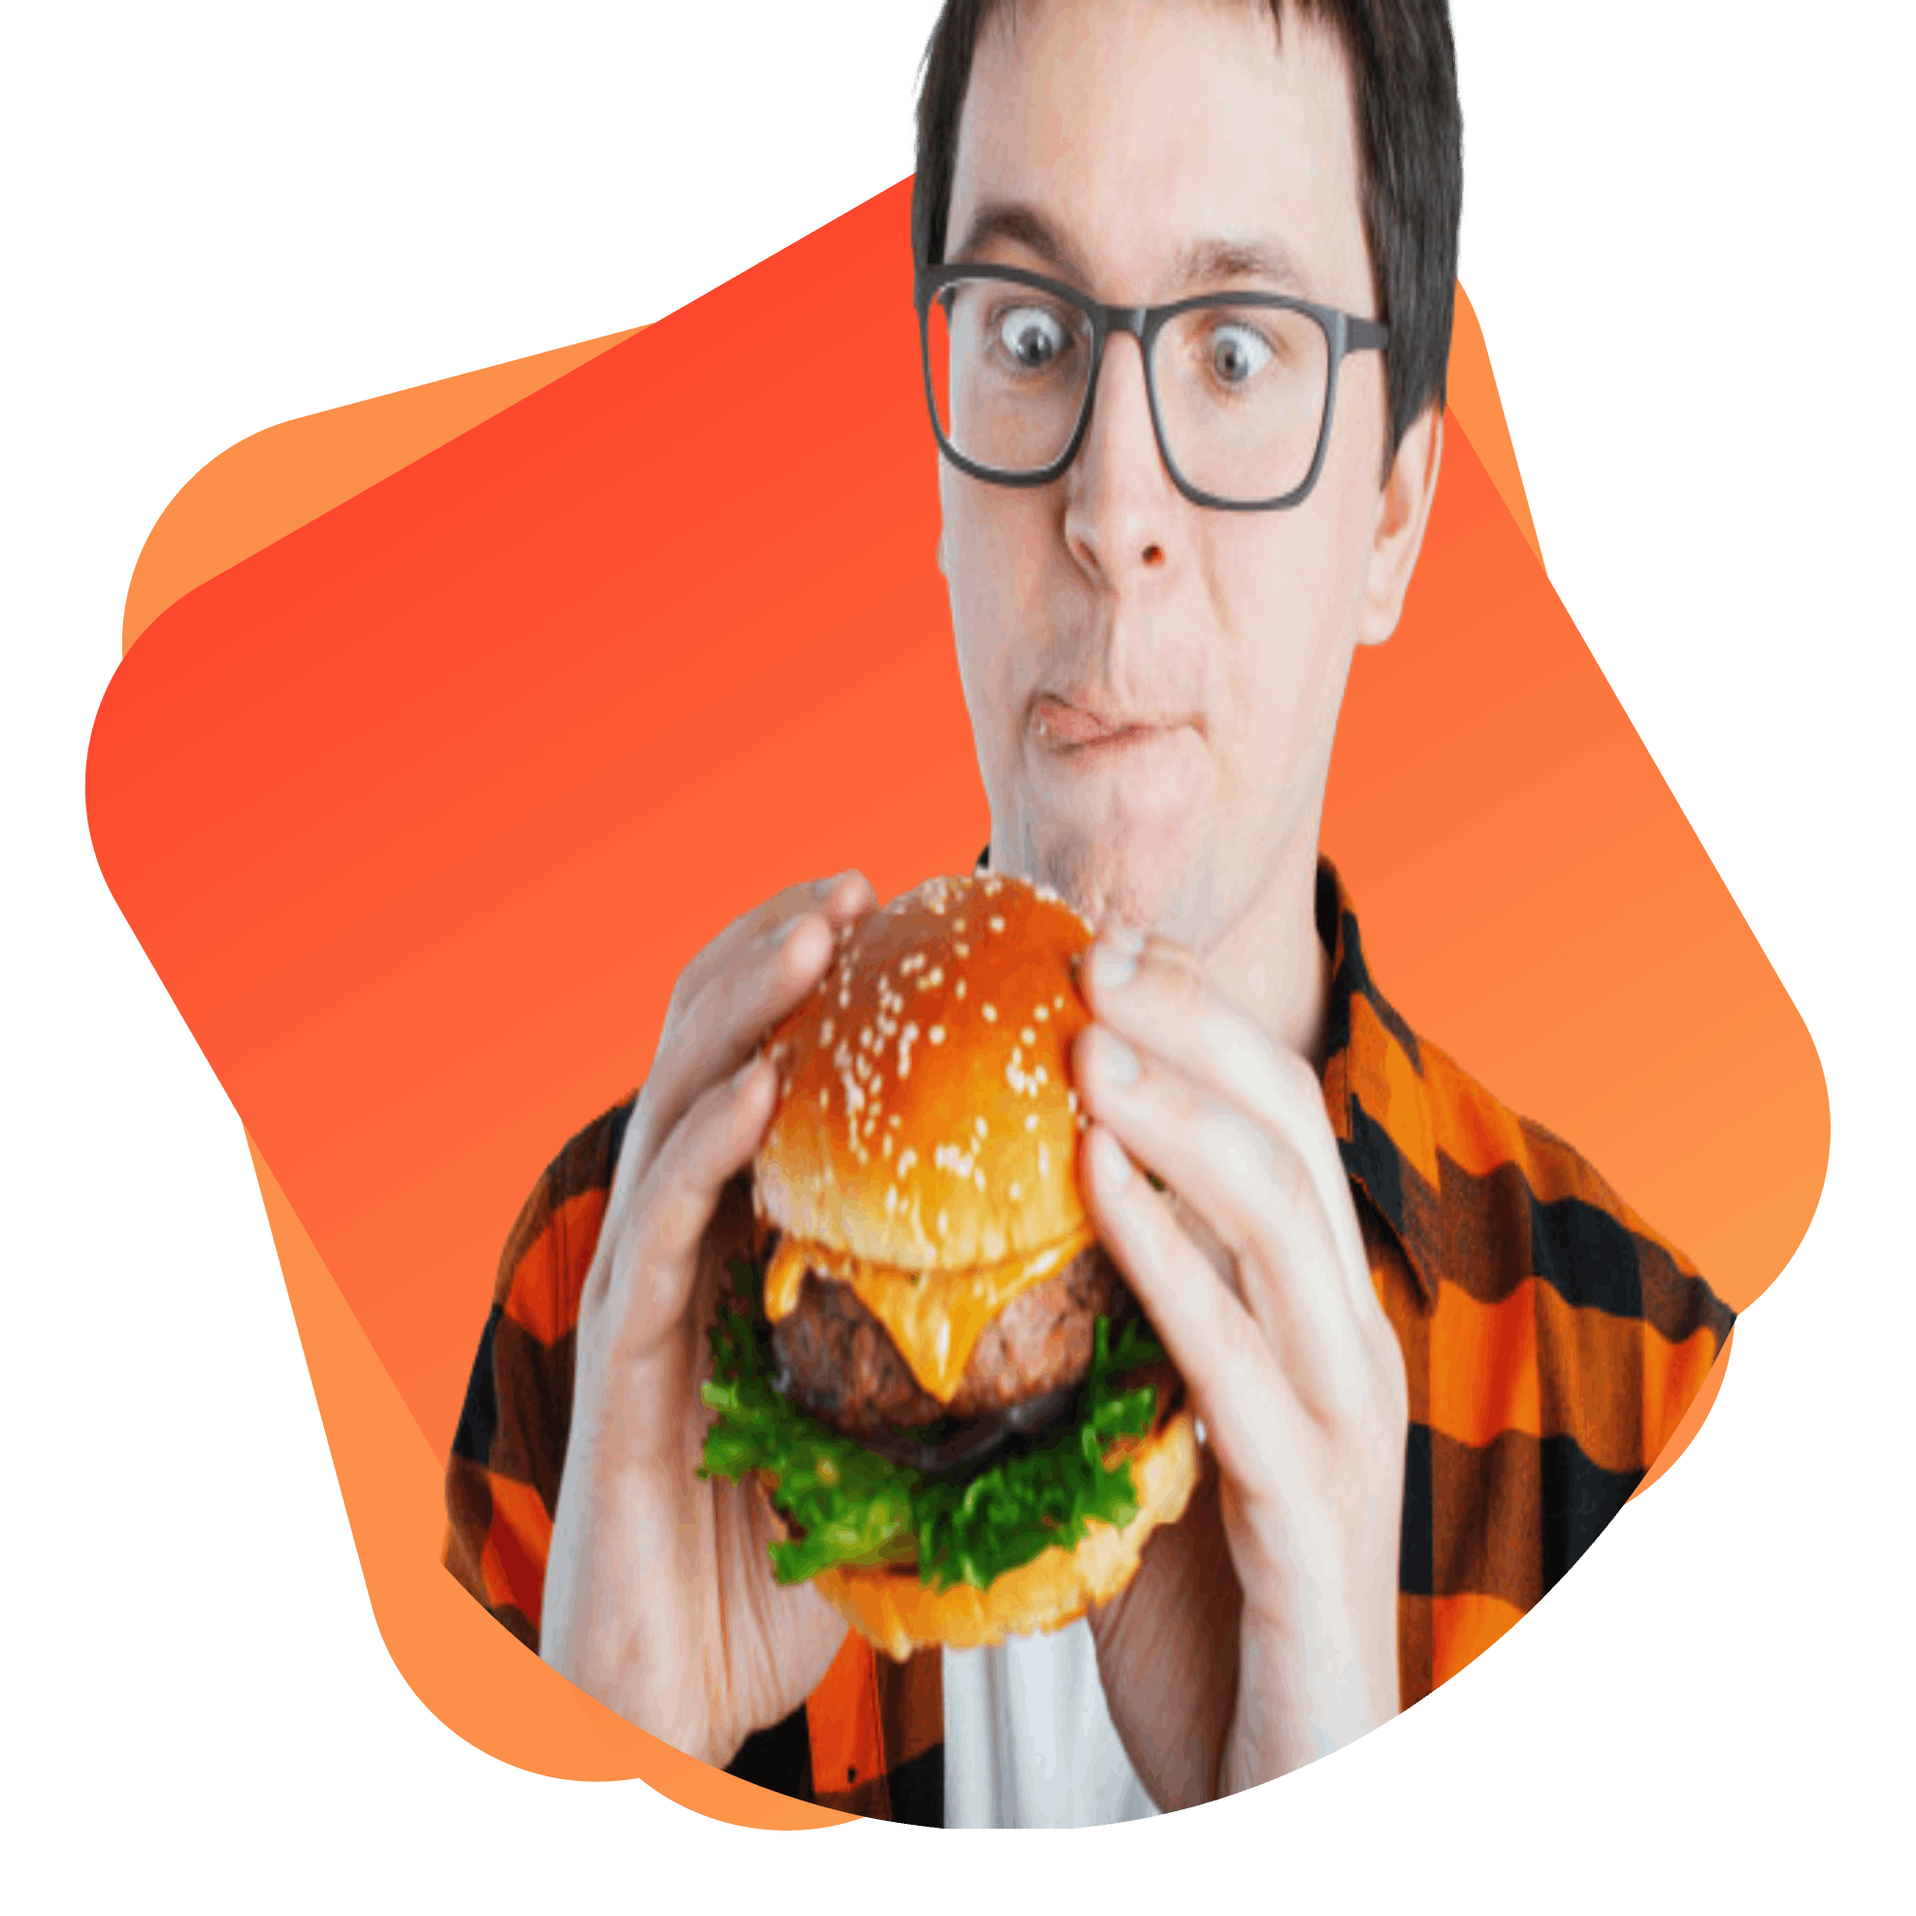
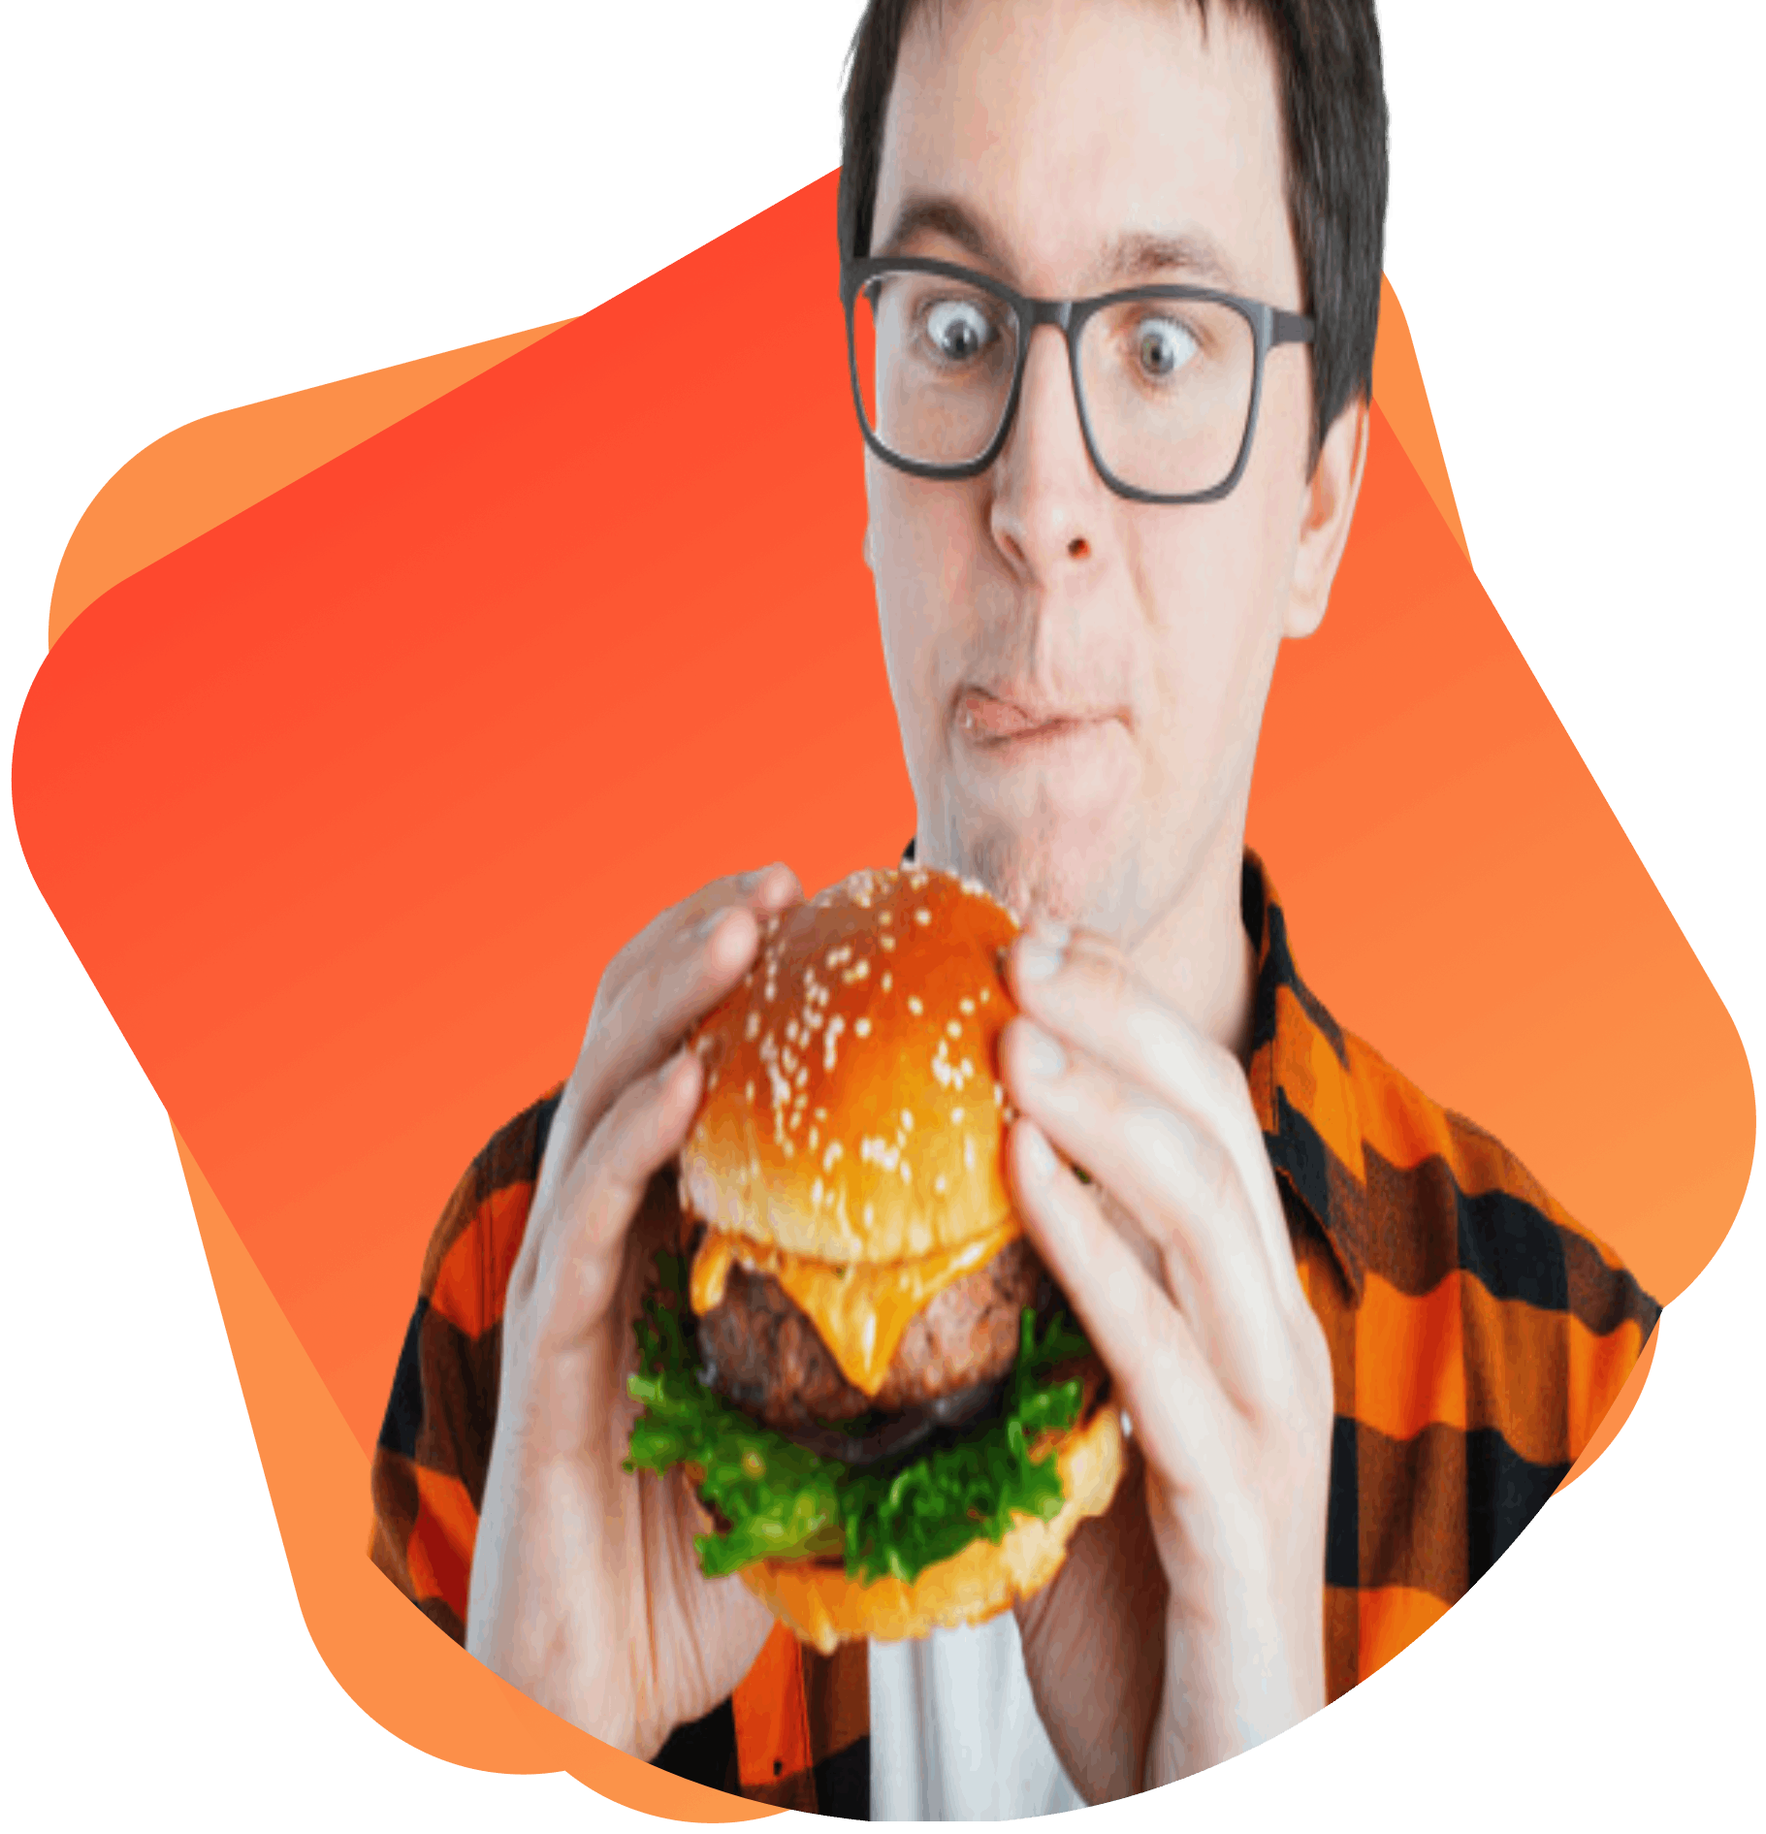
hero area added

diff --git a/index.html b/index.html
@@ -5,15 +5,32 @@
     <meta charset="UTF-8">
     <meta http-equiv="X-UA-Compatible" content="IE=edge">
     <meta name="viewport" content="width=device-width, initial-scale=1.0">
+    <!--title and favicon-->
     <title>Food Network</title>
     <link rel="icon" type="image/png" href="img/burger-fav.png" />
+    <!--google fonts-->
     <link rel="preconnect" href="https://fonts.googleapis.com">
     <link rel="preconnect" href="https://fonts.gstatic.com" crossorigin>
-    <link href="https://fonts.googleapis.com/css2?family=Roboto:wght@400;500;700&display=swap" rel="stylesheet">
+    <link href="https://fonts.googleapis.com/css2?family=Montserrat:wght@400;500;700&display=swap" rel="stylesheet">
+    <!--base style-->
     <link rel="stylesheet" href="style.css">
 </head>
 
 <body>
+    <section class="hero-area d-flex">
+        <div class="half-width">
+            <h1><span class="gradient-color">Skip</span> The Diet,</h1>
+            <h1>Just Eat Healthy</h1>
+            <h1>With Food Network</h1>
+            <p>Imagine you don't need a diet because we provide<br>
+                healthy and delicious food for you!</p>
+            <a class="gradient-btn" target="_blank" href="https://github.com/naymur-rhmn/food-network">Order Food</a>
+        </div>
+        <div class="half-width">
+            <img src="img/burger.png" alt="burger-man">
+        </div>
+    </section>
+    <!--end hero area-->
 
 </body>
 

diff --git a/style.css b/style.css
@@ -1,4 +1,54 @@
 body{
-    font-family: 'Roboto', sans-serif;
+    font-family: 'Montserrat', sans-serif;
     margin: 0;
 }
+h1{
+    font-size: 60px;
+    color: #575757;
+    line-height: 35px;
+}
+p{
+    font-size: 20px;
+    line-height: 1.7em;
+}
+.gradient-color{
+    background: linear-gradient(90deg, rgba(255,151,72,1) 0%, rgba(251,117,52,1) 100%);
+    -webkit-background-clip: text;
+    -webkit-text-fill-color: transparent;
+}
+.d-flex{
+    display: flex;
+}
+.hero-area{
+    margin: 0 8%;
+    padding-top: 120px;
+    padding-bottom: 120px;
+}
+.hero-area p{
+    color: #828282;
+    font-weight: 500;
+    margin-top: 60px;
+}
+.half-width{
+    width: 50%;
+}
+.half-width img{
+    width: 100%;
+}
+.gradient-btn{
+    color: white;
+    font-weight: 500;
+    text-decoration: none;
+    display: inline-block;
+    padding: 25px 50px;
+    margin-top: 35px;
+    background-image: linear-gradient(90deg, rgba(251,153,76,1) 0%, rgba(254,74,46,1) 100%);
+    border-radius: 50px;
+    box-shadow: 0px 0px 12px #f7bd90;
+}
+.gradient-btn:hover{
+    background-image: linear-gradient(90deg, rgb(245, 137, 55) 0%, rgb(247, 69, 42) 100%);
+}
+.hero-area .half-width:first-child{
+    margin-top: 100px;
+}/* end hero area */
